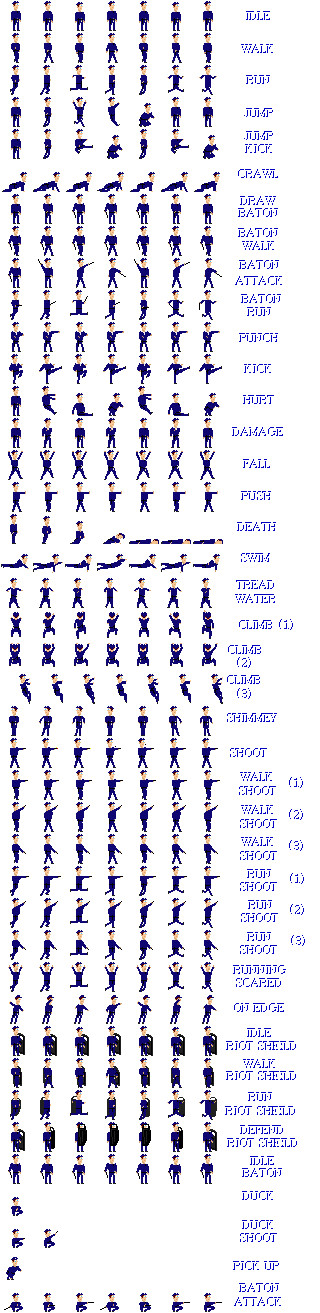
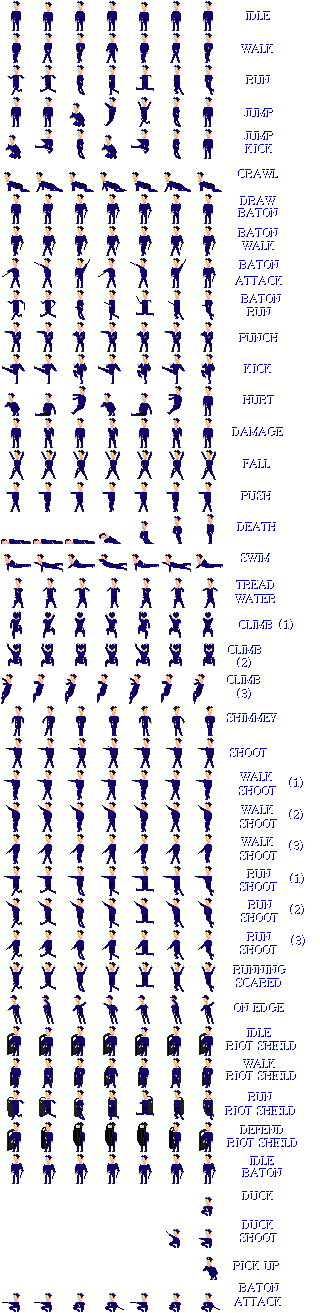
police animation

diff --git a/js/sprite.js b/js/sprite.js
@@ -29,7 +29,7 @@ var Sprite = function(fn) {
 
     this.drawAnimated = function (x, y, spriteSheetIndex) {
         if (spriteSheetIndex.length != undefined) {
-            if (this.animationDelay++ >= 100) {
+            if (this.animationDelay++ >= 1000) {
                 this.animationDelay = 0;
                 this.animationIndexCounter++;
                 if (this.animationIndexCounter >= spriteSheetIndex.length) {

diff --git a/js/gameFrame.js b/js/gameFrame.js
@@ -2,7 +2,7 @@
  * Created by ngwinghing on 25/11/2017.
  */
 function init() {
-    var police = new Sprite("img/officer-1.png");
+    var police = new Sprite("img/officer.png");
     // policeArray = [];
     //
     // for (var i = 0; i < 100; i++) {
